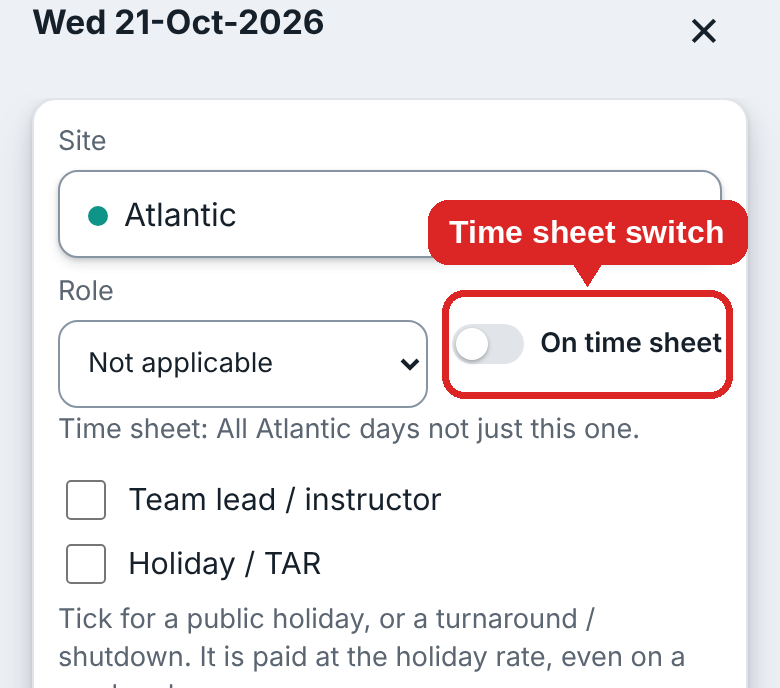
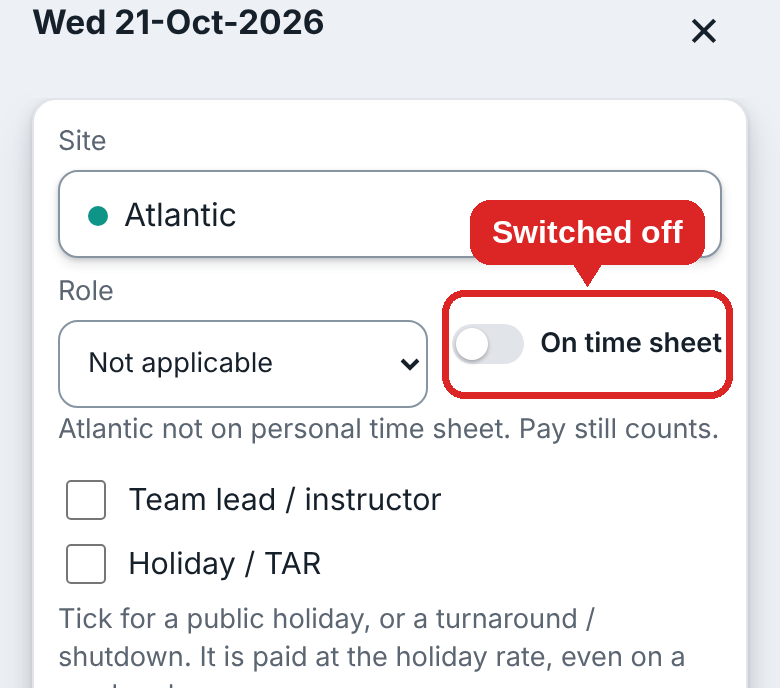
Guide: re-taken pictures (time sheet switch off and on, WhatsApp starter kit, share dialogs, Welcome, calendar), new pictures for the eye button and the in-app guide reader
Claude-Session: https://claude.ai/code/session_015B217MJCLoYGM2HCZFLF5v

Changed region(s): [[0.5231, 0.2747, 0.9846, 0.3968], [0.0615, 0.6105, 0.9231, 0.641]]

diff --git a/guide/build_guide.py b/guide/build_guide.py
@@ -155,6 +155,7 @@ s.append(steps([
  ("<b>Pick the site.</b> Tap the site box at the top. Type to search, or tap the site in the list.", A("e-picker"), 50),
  ("<b>Role or location.</b> Most sites have a <b>Role</b> list (for example Client medic, or Not applicable). A site set to <b>Type in a location</b> has a box instead: type where you worked, for example Dolphin platform. It goes in the <b>Client assigned</b> column of the time sheet. Tick <b>Team lead / instructor</b> or <b>Holiday / TAR</b> if they apply (they are this day only).", A("e-loc"), 50),
  ("<b>Time sheet switch.</b> Beside the Role box there is the switch <b>On time sheet</b>. Switch it on to put every day at that site on the time sheet. Under it a small line says what it covers. Switched on, it reads, for example, <b>On time sheet: all Atlantic days, not just this one</b>. With a role chosen (for example Client medic at PLNL) it covers only that role: <b>On time sheet: all PLNL Client medic days, not just this one</b>. Switched off, it reads <b>PLNL not on personal time sheet. Pay still counts.</b> So the days are still worked out and paid, they are just left off the time sheet you send to payroll. It is remembered from now on.", A("d-tick"), 50),
+ ("The same switch <b>switched on</b>: the line under it now says that every day at that site is on the time sheet.", A("d-tick-on"), 50),
  ("<b>Hours.</b> A job on the time sheet always uses <b>start and end time</b>: tap a time, turn the AM/PM, hour and minute wheels (or type the time) and tap <b>Set</b>. The hours paid come from the times and cannot be typed. If you tap <b>Save</b> before both times are set, a warning asks you to add them first (other jobs are exempt). Other sites can use <b>Simple</b> (type the hours with the minus and plus buttons) or <b>Detailed</b> (start and end time).", A("b-time"), 50),
  ("Hourly sites with a lunch check ask if <b>lunch was paid</b>, or how much unpaid lunch comes off (30 minutes or 1 hour). A <b>fixed day rate</b> site has no lunch options.", A("e-hours"), 50),
  ("The line at the bottom shows the <b>pay for the day</b>. To log a second job on the same day, tap <b>Add another job</b>. Then tap <b>Save</b>. <b>Cancel</b> throws the changes away.", A("e-pay"), 50)]))
@@ -170,7 +171,8 @@ s.append(steps([
  ("<b>Home</b> shows the month so far: gross, net, PAYE, days and paid hours, with each payslip group underneath (days, paid hours and its tax: PAYE, NIS and the health surcharge). This is shown for every month with pay, even with only one group. Every job that goes on the time sheet (the sites ticked for it, and other jobs) is counted on its own <b>Time sheet</b> line: its days, the hours of jobs paid by the hour (such as Client medic), and a small note with the pay counted there. <b>Fixed rate and other jobs add days and pay but no hours</b>, and the note says so. The pay and tax still belong to the group they came from, so PAYE, NIS and the surcharge are worked out from everything in that group. A day is counted once, so the lines add up to the Days and Paid hours at the top. Swipe the calendar left or right to change month. The <b>Month</b> tab shows the same month with the calendar (the month name and arrows stay at the top as you scroll, and changing the month keeps your place; each time you come back to the tab it opens on the current month) and, under its summary, two colour tables like the monthly sheet: <b>Gross and days</b> (for each site the gross, the days, and how many were weekdays and weekend or holiday days) and <b>Hours</b> (the hours worked and the paid hours, with overtime counted). A fixed day rate shows no hours. <b>Year</b> and <b>Charts</b> show the whole year. On the Year tab, <b>More details</b> opens a table for each payslip; while you scroll down inside an opened table its header stays under the title bar (tap it to close the table).", None),
  ("<b>Time sheet:</b> tap the download icon at the top of any screen, choose <b>Send to payroll</b>, then <b>Open email</b>. The time sheet is saved to your Downloads (the time is added to the file name, so it never clashes with an earlier one) and your email app (Gmail or Outlook) opens with the payroll address, subject and message ready. Attach the file from Downloads and send. To send it on WhatsApp instead, tap <b>Share the file with another app instead</b>.", Bs("b-download"), 50),
  ("<b>Payslips:</b> in the same screen, switch to <b>Payslip</b>. The eye icon lets you look at them first.", None),
- ("<b>This guide, inside the app:</b> tap the eye icon at the top of any screen, then <b>Guide (PDF)</b>. It opens like your phone's own PDF reader: pinch with two fingers (or tap + and −) to zoom, and scroll to read. <b>Download guide (PDF)</b> at the bottom saves it to your Downloads, and <b>Share</b> sends it to a colleague.", None)]))
+ ("<b>This guide, inside the app:</b> tap the eye icon at the top of any screen, then <b>Guide (PDF)</b>.", A("g-eye"), 50),
+ ("The guide opens like your phone's own PDF reader. Pinch with two fingers (or tap + and −) to zoom, and scroll to read. <b>Download guide (PDF)</b> at the bottom saves it to your Downloads, and <b>Share</b> sends it to a colleague.", A("g-viewer"), 50)]))
 s.append(Spacer(1, 3))
 s.append(callout("Back up now and then", ["Your days live only on your phone. If it is lost or its browser data is cleared, they are gone. Go to <b>Settings, Backup &amp; restore</b> and save a backup file every month or so, somewhere safe such as " + lk("https://drive.google.com/", "Google Drive") + "."]))
 

diff --git a/guide/capture/annot15.py b/guide/capture/annot15.py
@@ -1,0 +1,23 @@
+import json
+from PIL import Image, ImageDraw, ImageFont
+B="/usr/share/fonts/truetype/liberation/LiberationSans-Bold.ttf"; RED=(220,38,38)
+boxes=json.load(open("shots15/boxes.json"))
+def make(name, notes, out, up=None, down=None):
+    im=Image.open(f"shots15/{name}.png").convert("RGB"); d=ImageDraw.Draw(im); f=ImageFont.truetype(B,32)
+    for key,text,where in notes:
+        x,y,w,h=boxes[name][key]; pad=10
+        d.rounded_rectangle((x-pad,y-pad,x+w+pad,y+h+pad),22,outline=RED,width=7)
+        if where=="none": continue
+        tw=d.textlength(text,font=f); bw,bh=tw+44,64
+        bx=min(max(x+w/2-bw/2,16),im.width-bw-16)
+        by=y+h+pad+26 if where=="below" else y-pad-26-bh
+        cx=min(max(x+w/2,bx+30),bx+bw-30)
+        if where=="below": d.polygon([(cx-14,by),(cx+14,by),(cx,by-22)],fill=RED)
+        else: d.polygon([(cx-14,by+bh),(cx+14,by+bh),(cx,by+bh+22)],fill=RED)
+        d.rounded_rectangle((bx,by,bx+bw,by+bh),20,fill=RED); d.text((bx+bw/2,by+bh/2),text,font=f,fill=(255,255,255),anchor="mm")
+    if up is not None:
+        y=boxes[name][notes[0][0]][1]; h=boxes[name][notes[0][0]][3]
+        im=im.crop((0,max(0,int(y-up)),im.width,min(im.height,int(y+h+down))))
+    im.save(f"shots15/{out}.png"); print(out, im.size)
+make("eye",[("guide","","none")],"g-eye",up=470,down=40)
+make("viewer",[("dl","Download","above")],"g-viewer")

diff --git a/guide/capture/annot9.py b/guide/capture/annot9.py
@@ -19,5 +19,6 @@ def make(name, notes, out, up, down):
 make("typed",[("typed","Type in a location","above")],"d-typed",up=170,down=420)
 make("fixed",[("fixed","Fixed day rate","above"),("rate","Day rate","below"),("hours","1x hours","below")],"d-fixed",up=150,down=170)
 make("weekend",[("wk","Same as weekday","above"),("hol","Or set its own","below")],"d-weekend",up=170,down=170)
-make("tick",[("tick","Time sheet switch","above")],"d-tick",up=300,down=300)
-for n in ["d-typed","d-fixed","d-weekend","d-tick"]: print(n,Image.open(f"shots9/{n}.png").size)
+make("tick",[("tick","Switched off","above")],"d-tick",up=300,down=300)
+make("tickon",[("tick","Switched on","above")],"d-tick-on",up=300,down=300)
+for n in ["d-typed","d-fixed","d-weekend","d-tick","d-tick-on"]: print(n,Image.open(f"shots9/{n}.png").size)

diff --git a/guide/capture/README.md b/guide/capture/README.md
@@ -10,6 +10,7 @@ shows has changed.
    They need a starter kit file at `/tmp/kit-test.txt` (download one from Settings, Share this app).
 3. Run each script with an output folder, then `annot.py`, `annot3.py` and `annot4.py` draw the
    red rings and labels. Copy the finished `a-*`, `b-*` and `c-*` images into `guide/assets/shots/`.
+3b. `shots9`, `shots10`, `shots14` and `shots15` (with `annot9.py`, `annot10.py`, `annot14.py`, `annot15.py`) make the `d-*`, `e-*`, `f-*` and `g-*` images the same way. `shots15` shows the eye button and the in-app guide reader.
 4. `ill.py` redraws the picture mock-ups (Chrome and Safari menus, Google Sheets menus, WhatsApp)
    into `guide/assets/ill/`.
 5. Use made-up data only (for example "Example Site"). Never show real rates or pay.
